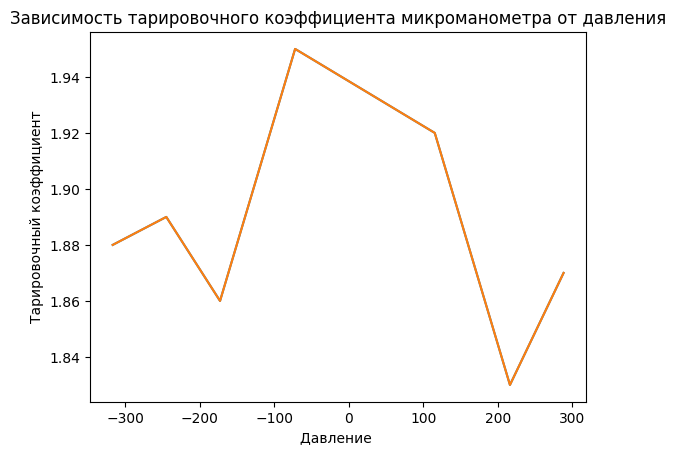
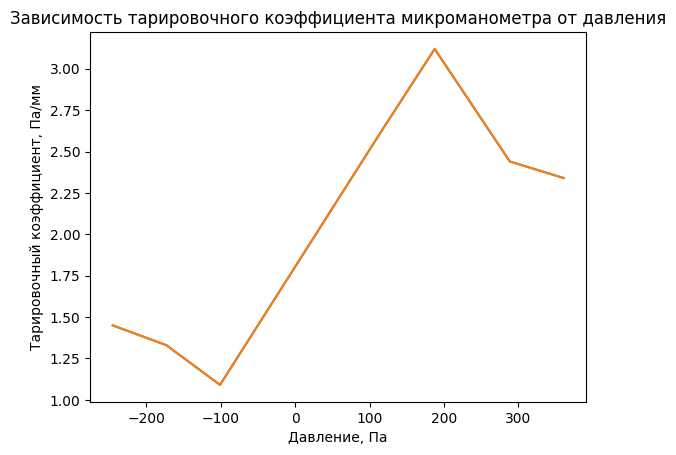
final

diff --git a/laba.py b/laba.py
@@ -35,15 +35,11 @@ def eval_table():
     dh = []
     k =  []
     for i in range(1, len(ql)):
-        # TODO  (ql[i] - ql[0]) - (qr[i] - qr[0])
-        dm.append(round((ql[i] - ql[0]) - (qr[i] - qr[0]), 3))
+        dm.append(round(ql[i] - qr[i], 3))
         dg.append(round(g * dm[i - 1], 3))
-        # OK
         dp.append(round(dg[i - 1] / spr, 5))
-        # TODO (Hl[i] - Hl[0]) - (Hr[i] - Hr[0])
         dh.append(round((hl[i] - hl[0]) - (hr[i] - hr[0])))
-        print(round((ql[i] - ql[0]) - (qr[i] - qr[0]), 2), round(abs(dp[i - 1] / dh[i - 1]), 1))
-        k.append(round(abs(dp[i - 1] / dh[i - 1]), 2))
+        k.append(round((dp[i - 1] / dh[i - 1]), 2))
     return dm, dg, dp, hl, hr, dh, k
 
 
@@ -54,9 +50,6 @@ def get_table():
         table.append([i+1])
         for ii in range(len(rows)):
             table[-1].append(rows[ii][i])
-    
-    # for i in range(len(table)):
-    #     print(table[i])
 
     return table
 
@@ -72,10 +65,9 @@ def save_image():
     data.sort(key=lambda el: el[0])
     dp = list(map(lambda el: el[0], data))
     k = list(map(lambda el: el[1], data))
-    # dp, k = eval_table()[2], eval_table()[-1]
     plt.plot(dp, k)
-    plt.xlabel('Давление ')
-    plt.ylabel('Тарировочный коэффициент')
+    plt.xlabel('Давление, Па')
+    plt.ylabel('Тарировочный коэффициент, Па/мм')
     plt.title('Зависимость тарировочного коэффициента микроманометра от давления')
     plt.savefig('plot.png', bbox_inches='tight')
 

diff --git a/get_lab_info.py b/get_lab_info.py
@@ -22,5 +22,5 @@ def get_lab_info(doc):
     info["mean_k"] = eval_mean_k()
     save_image()
     info["plot"] = InlineImage(doc, "plot.png")
-    info["scheme"] = InlineImage(doc, "scheme.png")
+    info["scheme"] = InlineImage(doc, "scheme.jpg")
     return info
